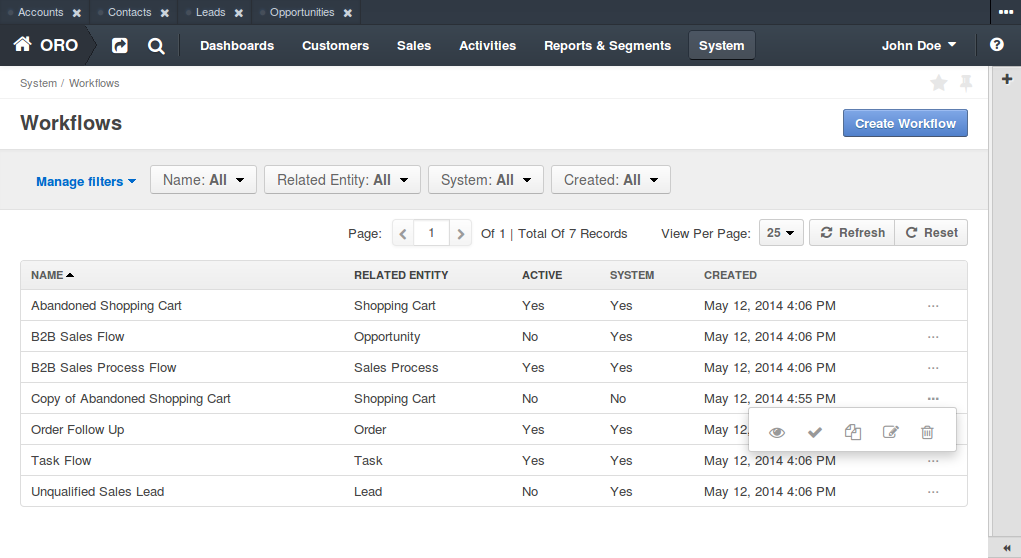
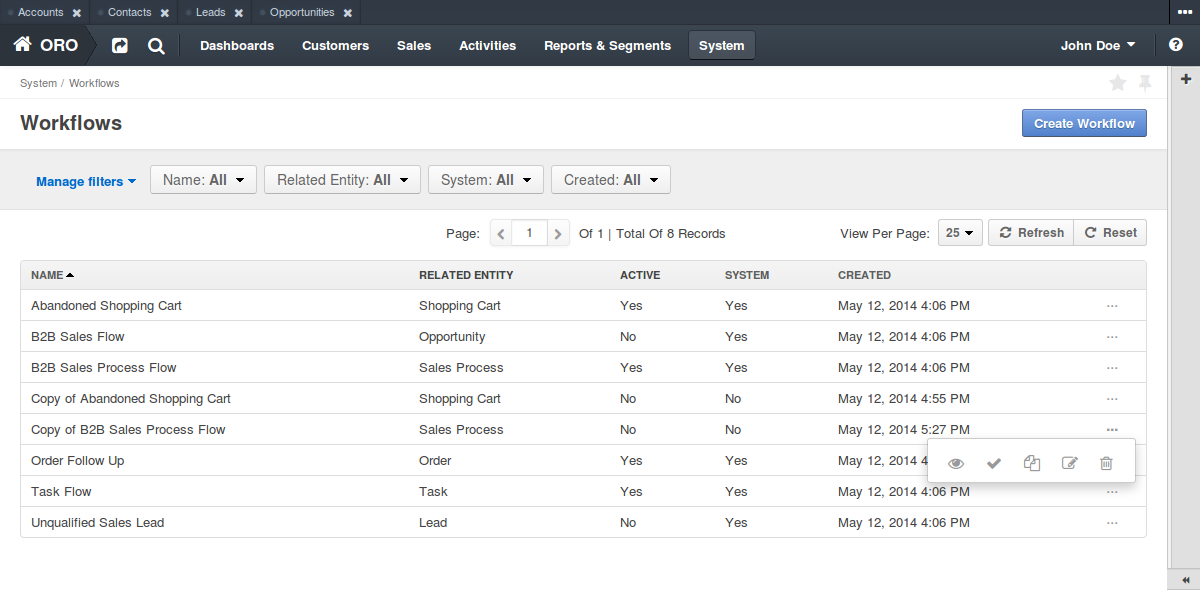
User guide: Workflow management  - updated images  - added workflow grid section

diff --git a/user_guide/workflow_management.rst b/user_guide/workflow_management.rst
@@ -82,6 +82,26 @@ Workflow grid has following columns:
 
 * **Created** - date when current workflow was created.
 
+Each workflow can have following actions:
+
+* **View** (eye icon) - shows compact representation of workflow - basic information, list of steps and transitions.
+
+* **Activate** (tick icon) - allows to activate current workflow. It's important to know that during activation all
+  workflow data from other workflows for current entity will be reset.
+
+* **Deactivate** (cross icon) - deactivates current worfklow without any additional actions.
+
+* **Clone** (two sheets of paper icon) - allows user to create copy of existing workflow and customize it according to
+  some requirements.
+
+* **Edit** (pen and paper icon) - allows user to edit existing workflow. This action can be applied only to
+  non system workflows.
+
+* **Delete** (trash bin icon) - allows user to delete existing workflow. All related data wiil be removed automatically.
+  This action can be applied only to non system workflows.
+
+Also this page has button "Create workflow" that redirects user to create workflow page.
+
 
 View Page
 ---------
